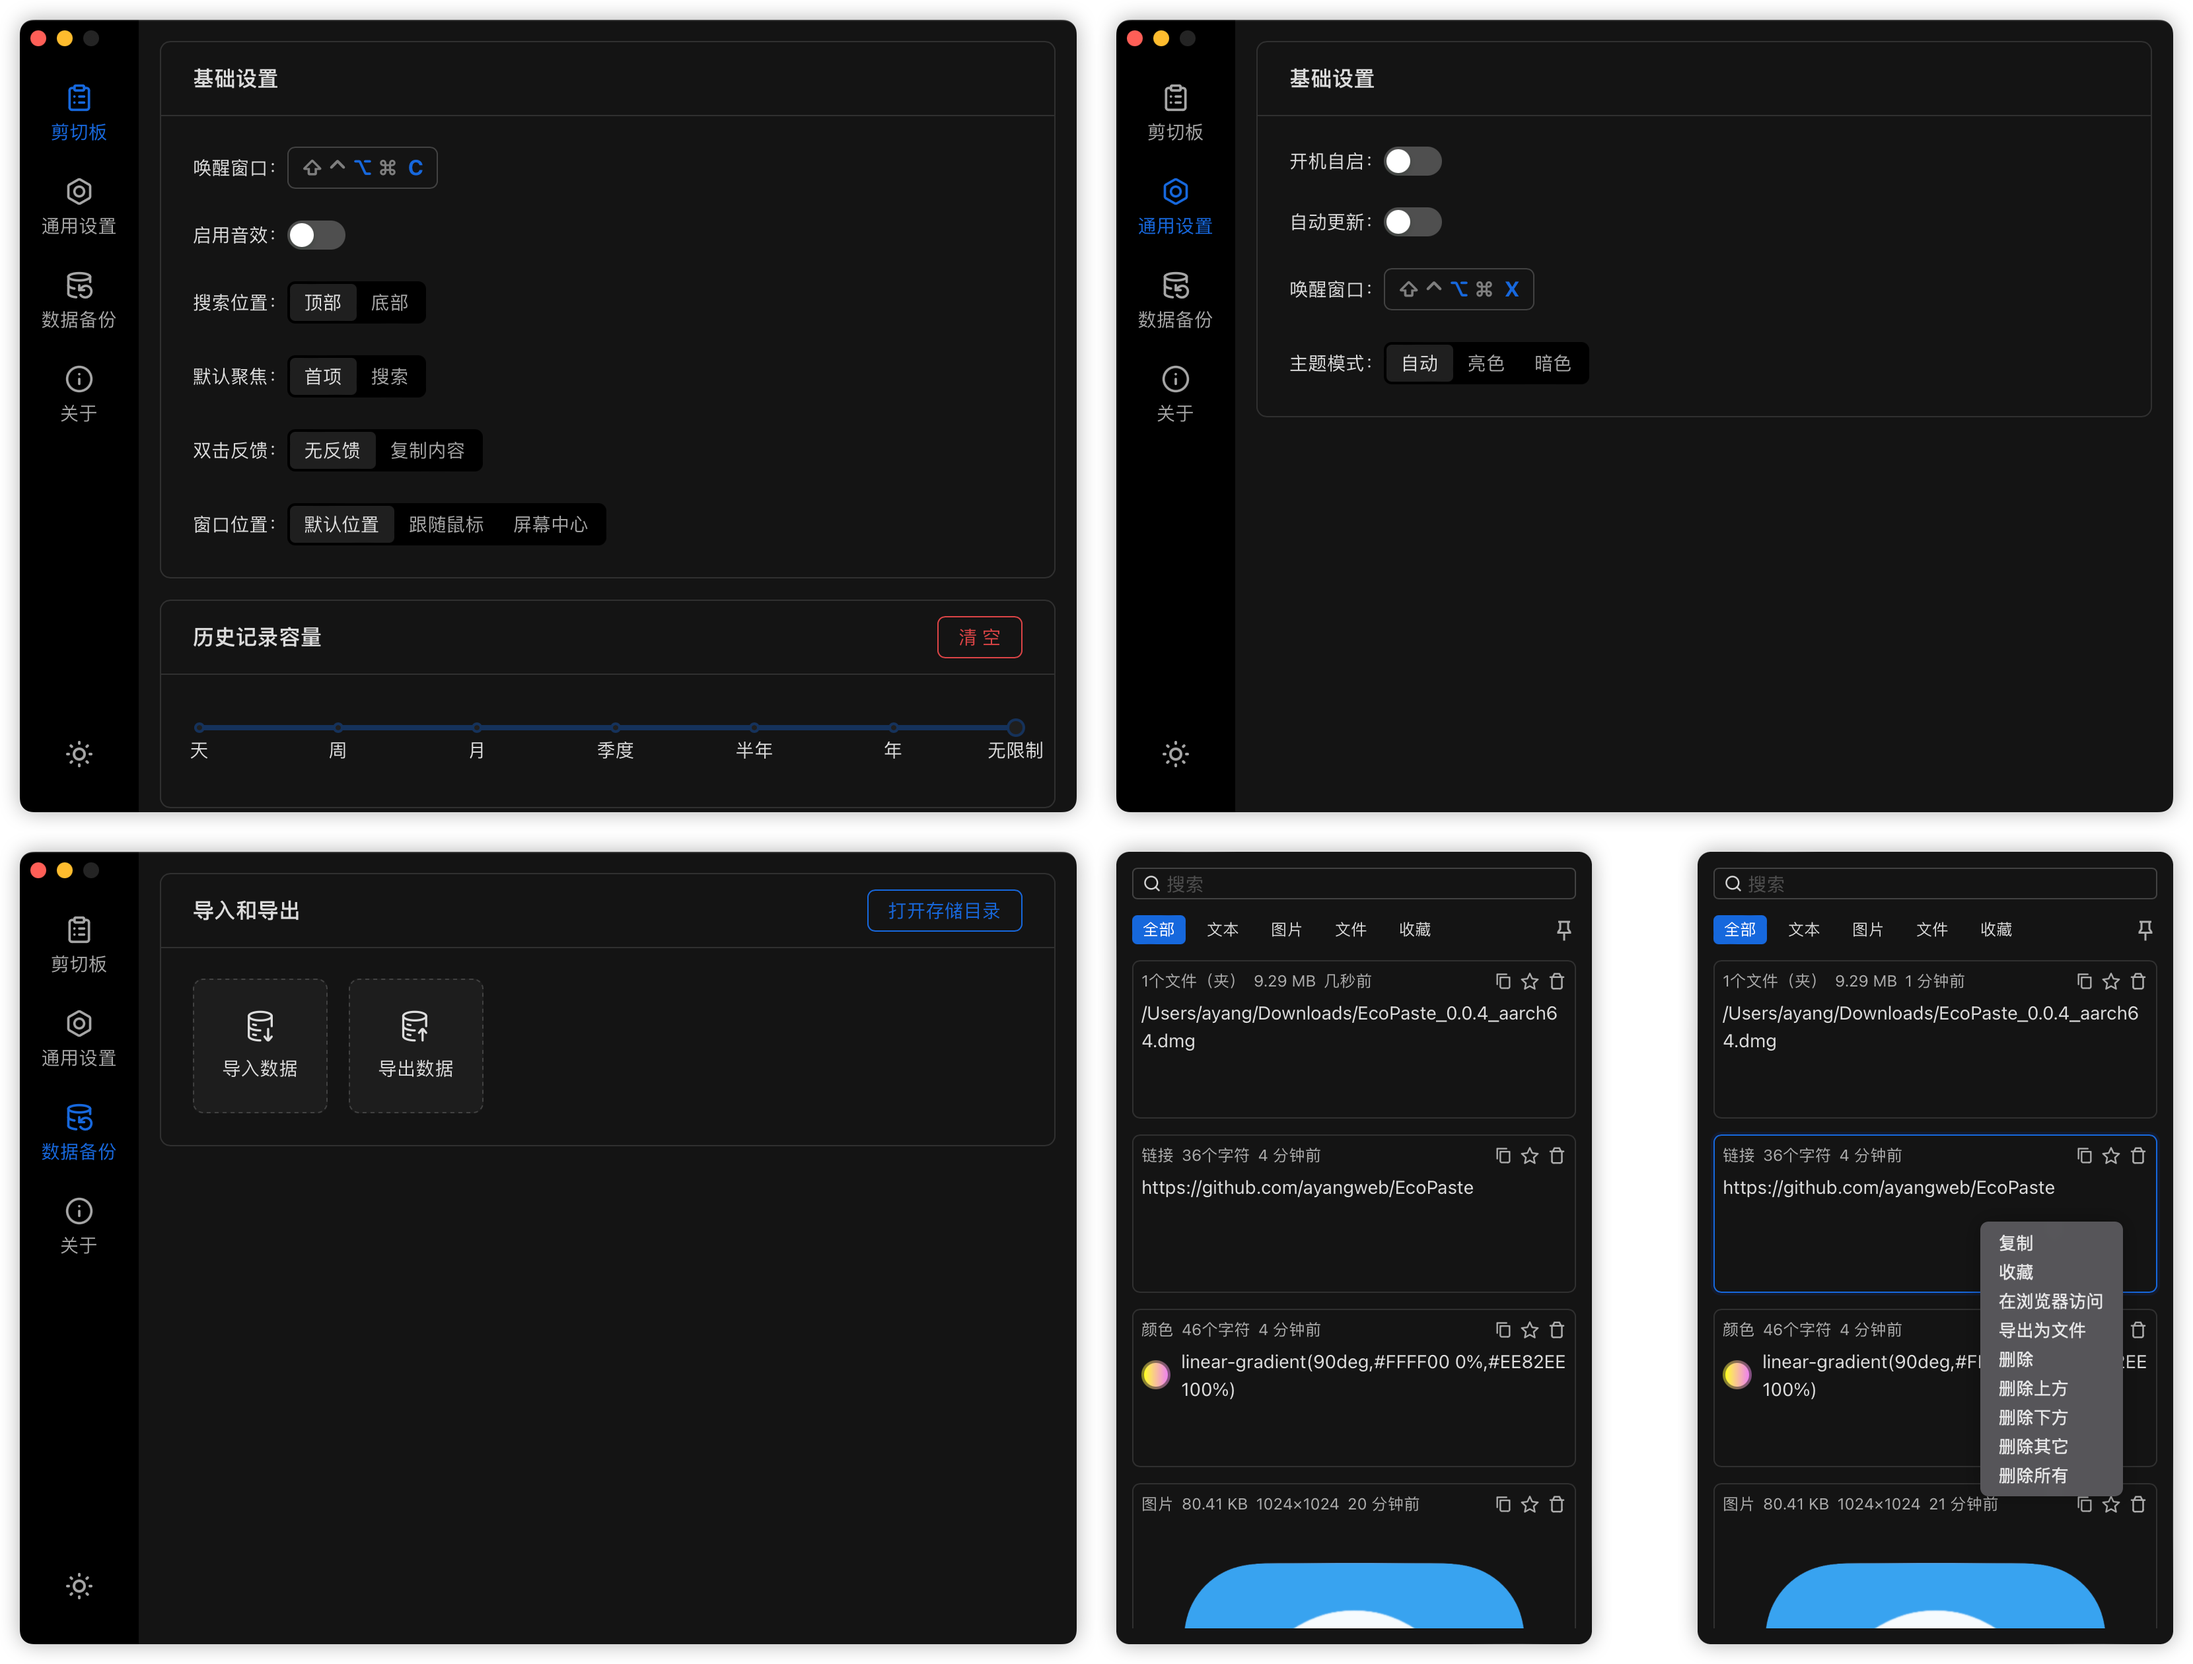
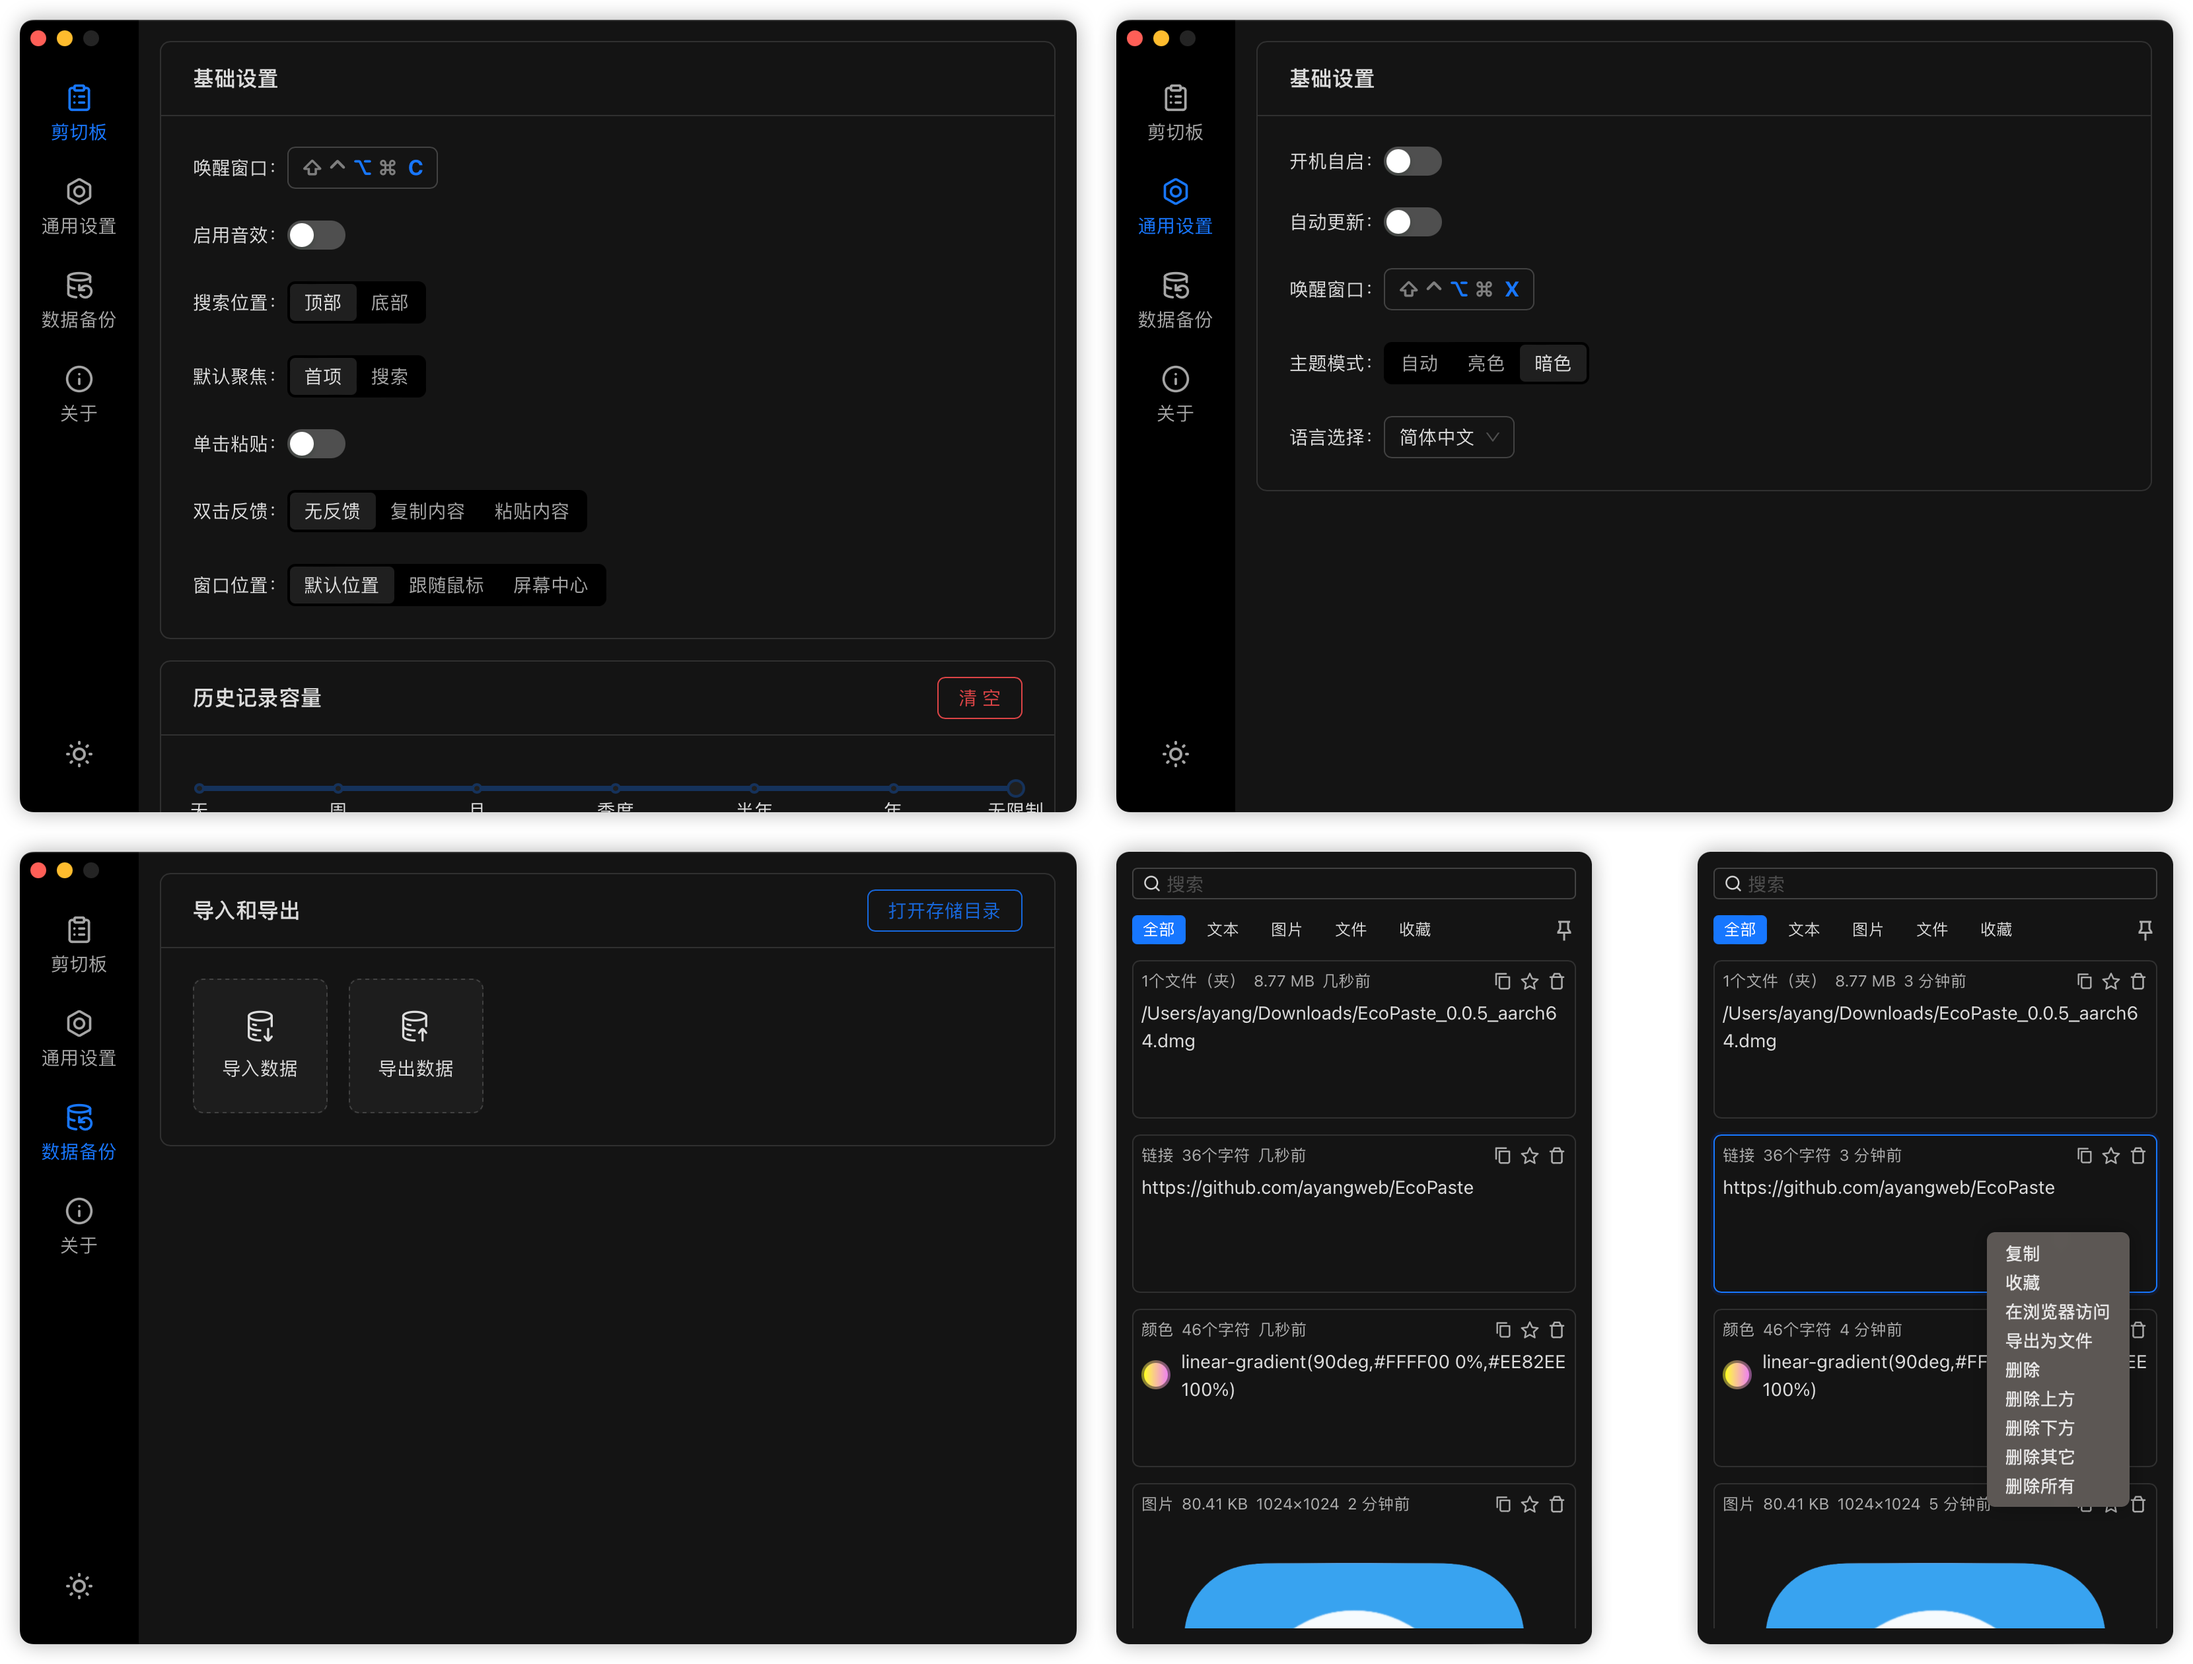
docs: 更新 README 的应用截图 (#250)

diff --git a/README.ja-JP.md b/README.ja-JP.md
@@ -5,7 +5,7 @@
 <div align="center">
   <br/>
   <div>
-      日本語 | <a href="https://github.com/ayangweb/EcoPaste">English</a> | <a href="./README.zh-CN.md">简体中文</a> 
+      日本語 | <a href="./README.md">English</a> | <a href="./README.zh-CN.md">简体中文</a> 
   </div>
   <br/>
     
@@ -47,9 +47,9 @@
 - **Windows**: [Universal](https://mirror.ghproxy.com/https://github.com/ayangweb/EcoPaste/releases/download/v0.0.4/EcoPaste_0.0.4_x64_zh-CN.msi)
 
 <picture>
-  <source media="(prefers-color-scheme: dark)" srcset="./images/app-dark.zh-CN.png" />
-  <source media="(prefers-color-scheme: light)" srcset="./images/app-light.zh-CN.png" />
-  <img src="./images/app-light.zh-CN.png" />
+  <source media="(prefers-color-scheme: dark)" srcset="./images/app-dark.ja-JP.png" />
+  <source media="(prefers-color-scheme: light)" srcset="./images/app-light.ja-JP.png" />
+  <img src="./images/app-light.ja-JP.png" />
 </picture>
 
 ## 機能の概要

diff --git a/README.md b/README.md
@@ -47,9 +47,9 @@
 - **Windows**: [Universal](https://mirror.ghproxy.com/https://github.com/ayangweb/EcoPaste/releases/download/v0.0.5/EcoPaste_0.0.5_x64_zh-CN.msi)
 
 <picture>
-  <source media="(prefers-color-scheme: dark)" srcset="./images/app-dark.zh-CN.png" />
-  <source media="(prefers-color-scheme: light)" srcset="./images/app-light.zh-CN.png" />
-  <img src="./images/app-light.zh-CN.png" />
+  <source media="(prefers-color-scheme: dark)" srcset="./images/app-dark.en-US.png" />
+  <source media="(prefers-color-scheme: light)" srcset="./images/app-light.en-US.png" />
+  <img src="./images/app-light.en-US.png" />
 </picture>
 
 ## Features

diff --git a/README.zh-CN.md b/README.zh-CN.md
@@ -5,7 +5,7 @@
 <div align="center">
   <br/>
   <div>
-      简体中文 | <a href="https://github.com/ayangweb/EcoPaste">English</a> | <a href="./README.ja-JP.md">日本語</a>
+      简体中文 | <a href="./README.md">English</a> | <a href="./README.ja-JP.md">日本語</a>
   </div>
   <br/>
     
